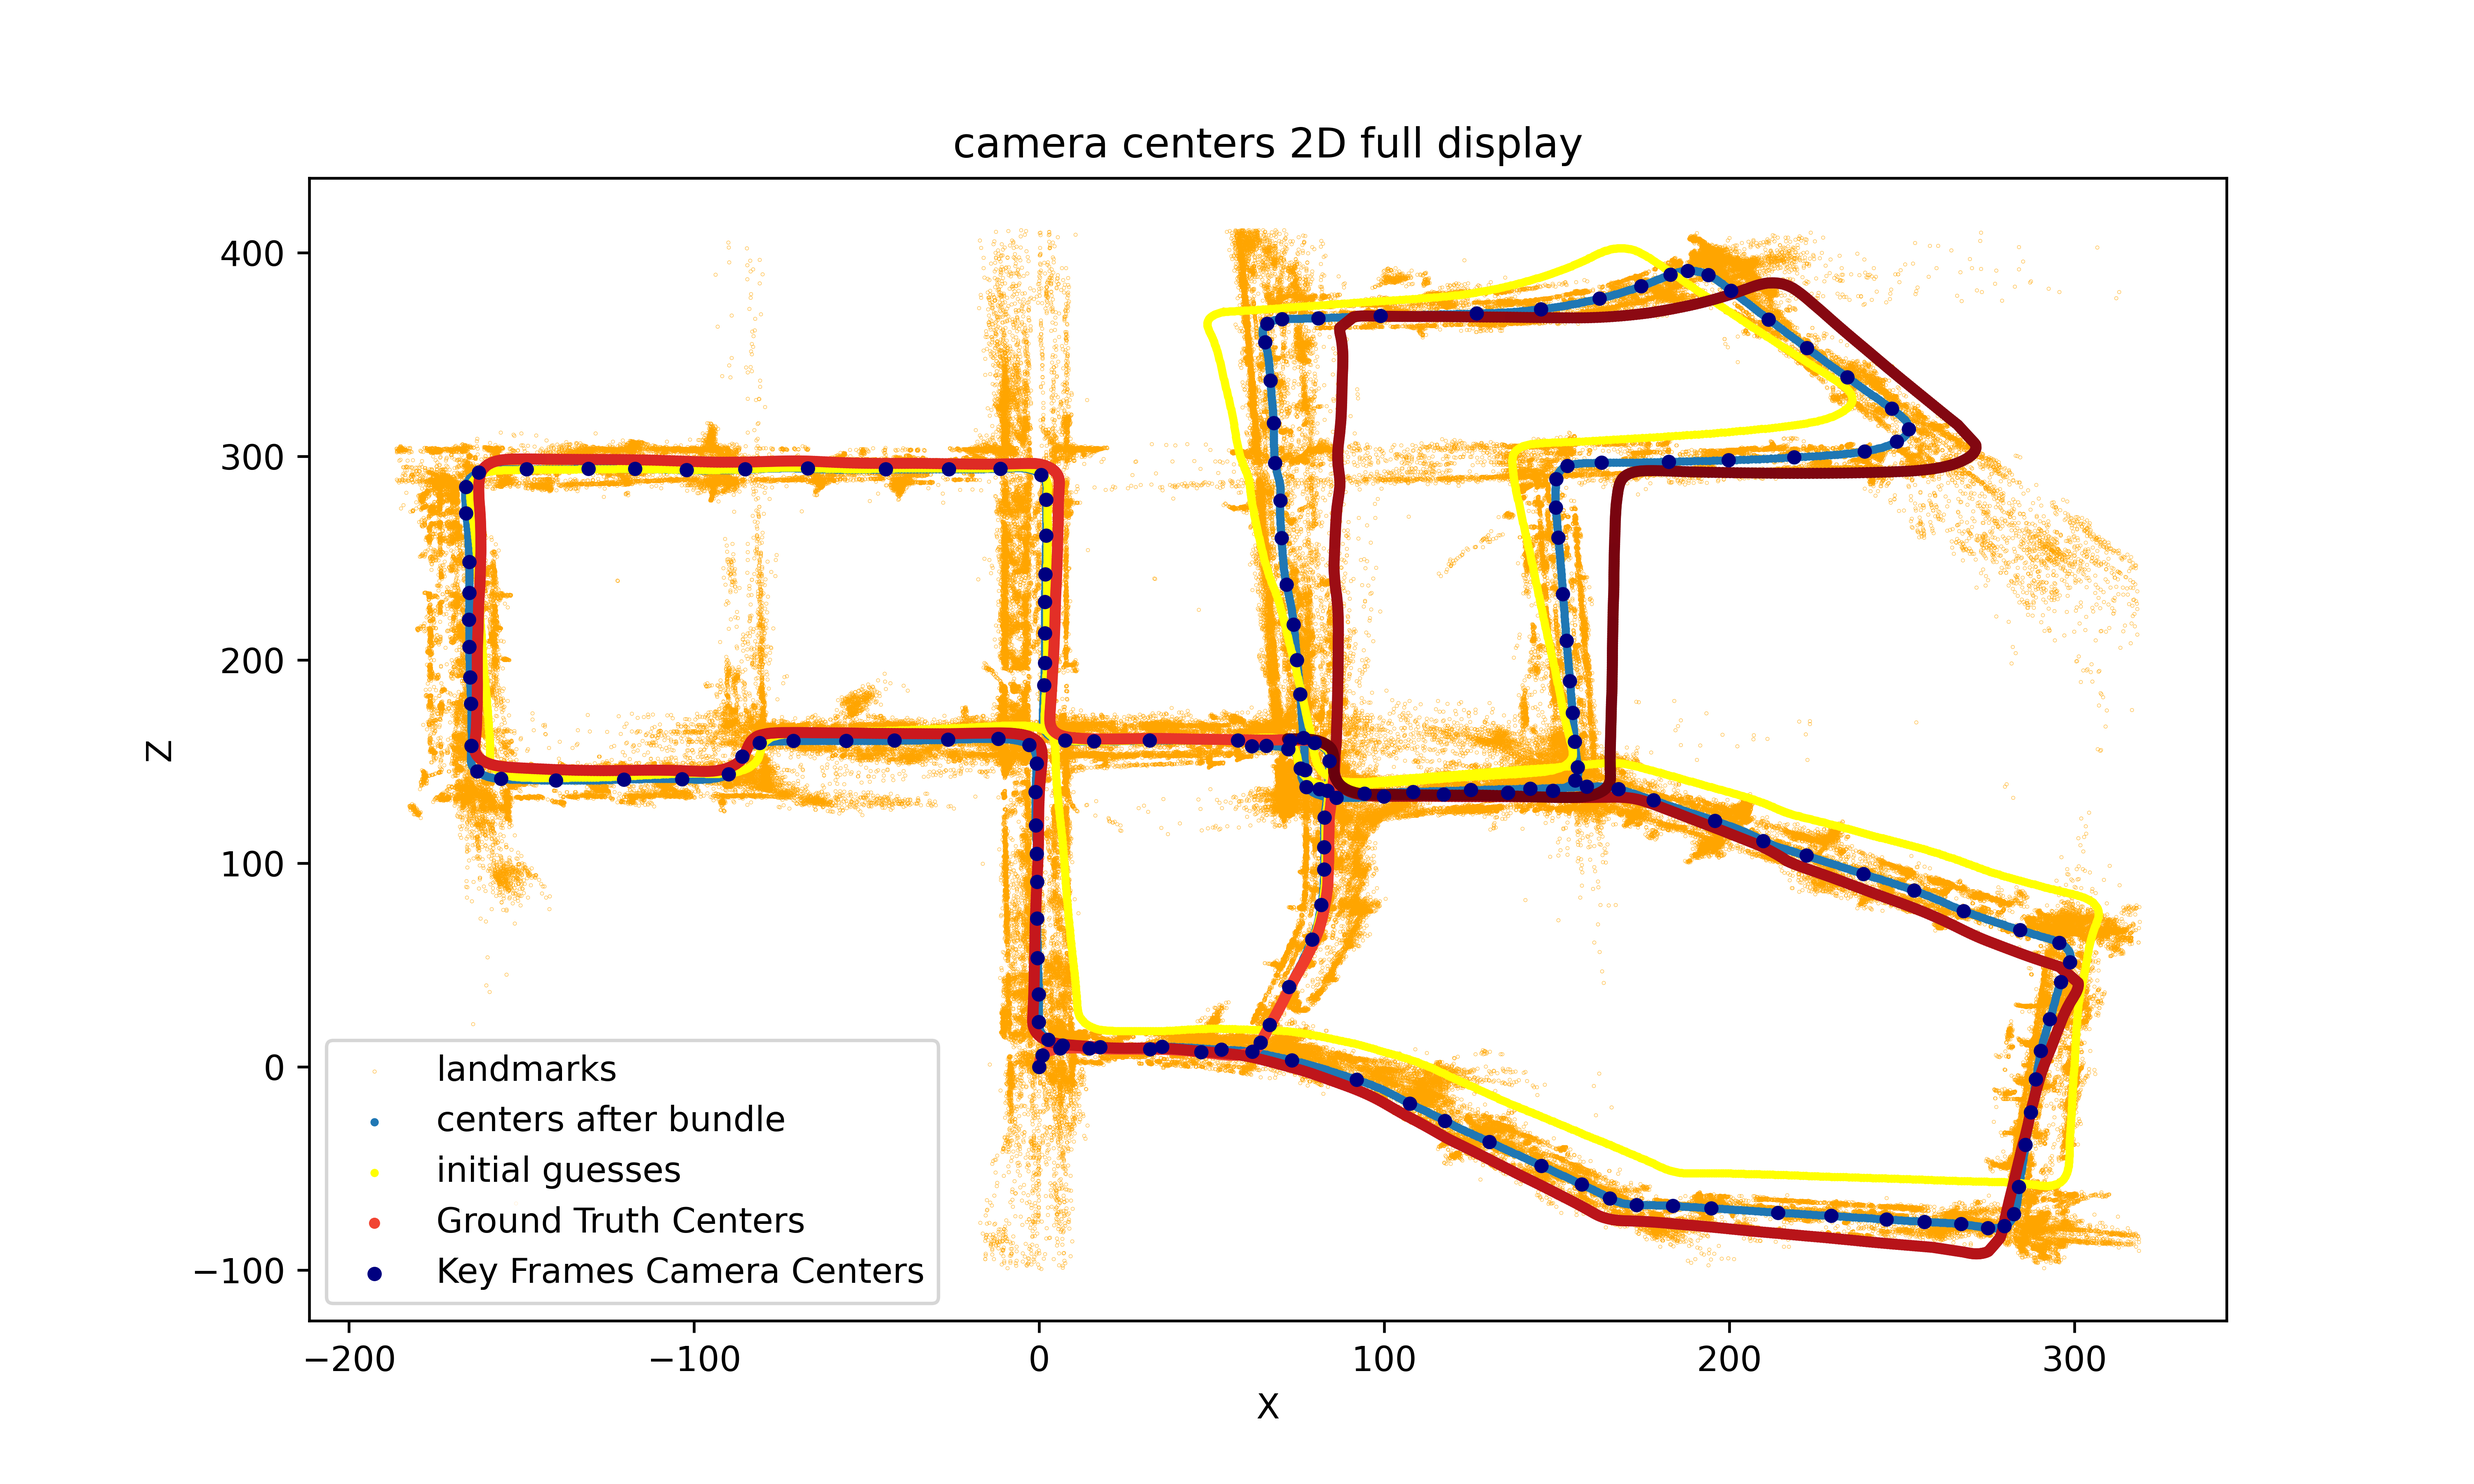
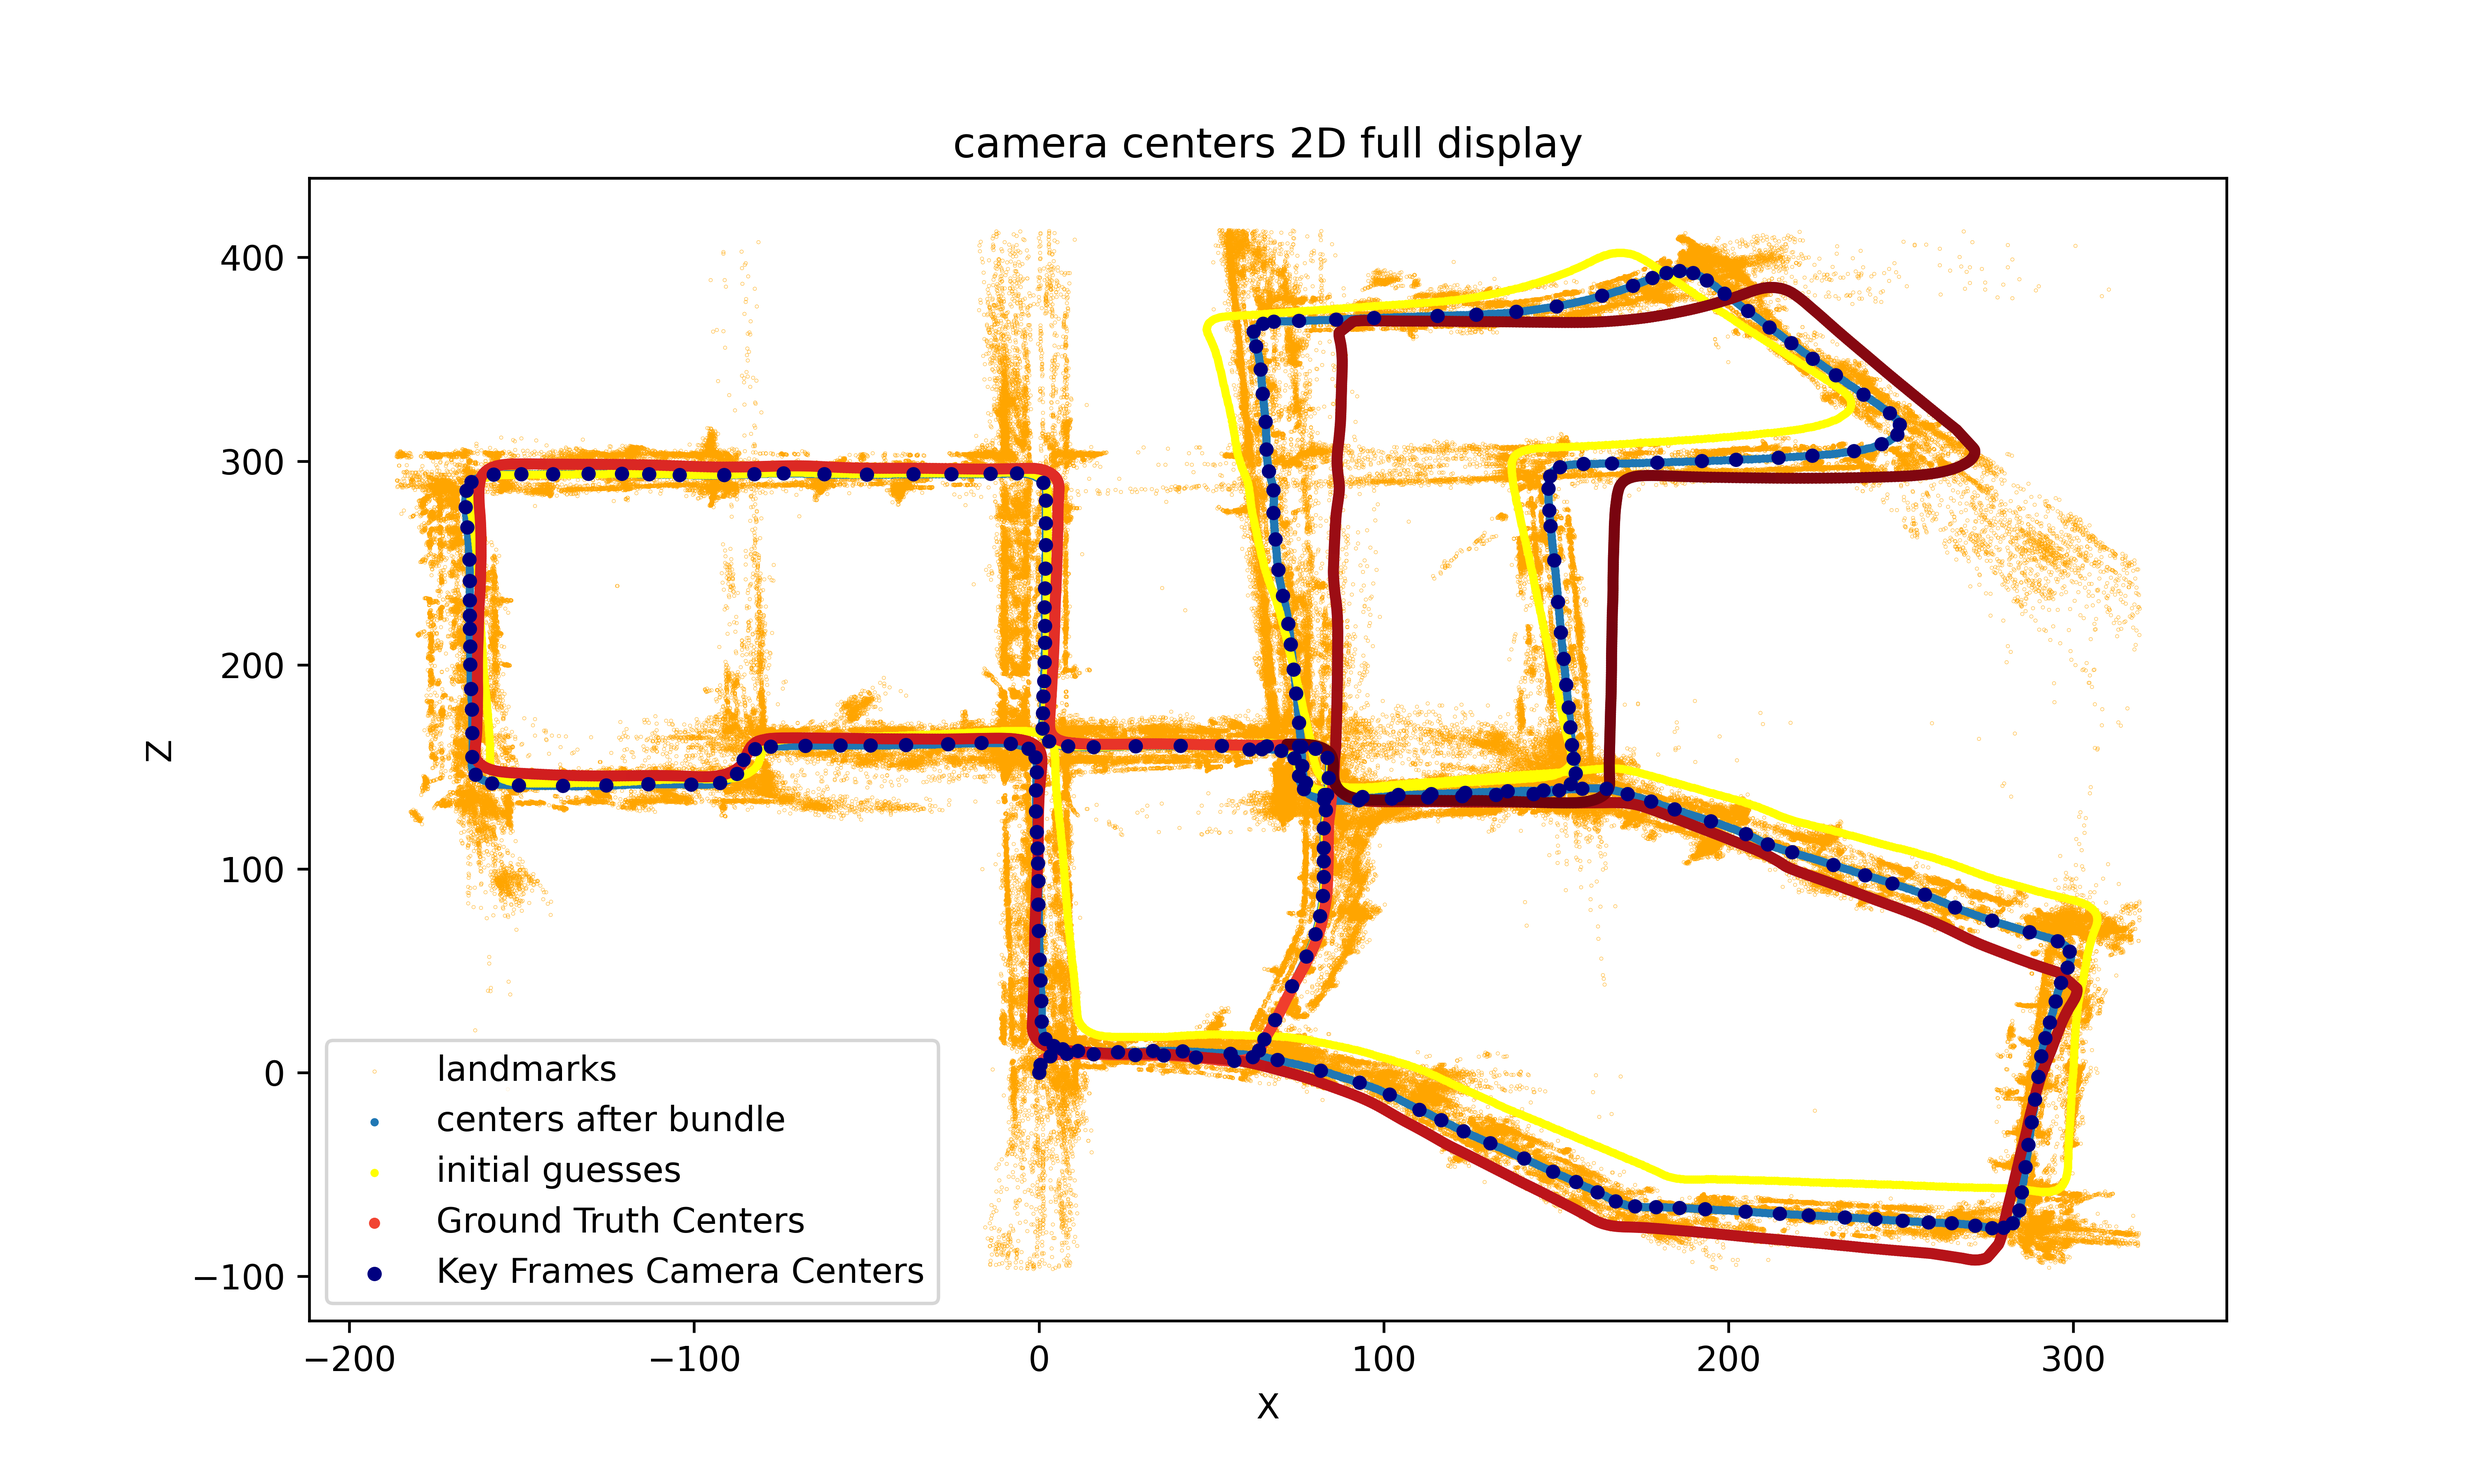
modified covariance plot

diff --git a/VAN_ex/code/ex5/Ex5.py b/VAN_ex/code/ex5/Ex5.py
@@ -140,13 +140,11 @@ def display_factor_erros(factor_errors, track_id):
     plt.savefig(f"reprojection errors along track.png")
 
 
-
-
-def display_3d_trajectory_gtsam_function(initial_estimates, optimized_values):
+def display_3d_trajectory_gtsam_function(graph, initial_estimates, optimized_values):
     # display the trajectories using gtsam fucntion
     plt.figure()
-    gtsam.utils.plot.plot_trajectory(fignum=0, values=optimized_values)
-    gtsam.utils.plot.plot_trajectory(fignum=0, values=initial_estimates)
+    marginals_results = gtsam.Marginals(graph, optimized_values)
+    gtsam.utils.plot.plot_trajectory(fignum=0, marginals=marginals_results, values=optimized_values)
     # Get the current axis
     ax = plt.gca()
     # Flip the y-axis
@@ -159,7 +157,7 @@ def display_3d_trajectory_gtsam_function(initial_estimates, optimized_values):
     ax.set_box_aspect([1, 1, 1])  # Aspect ratio is 1:1:1
     ax.view_init(elev=30, azim=90)  # Adjust the elevation and azimuth to get the desired view
     # Save the figure
-    plt.savefig("gtsam_3D_trajectory_for_first_bundle_window.png")
+    plt.savefig("gtsam_3D_trajectory_for_first_bundle_window.png", dpi=600)
 
 
 def display_initial_vs_optimized_measured_and_reprojected_worse_factor(left_image, q_measured, q_projection_final,
@@ -404,7 +402,8 @@ def task_5_3(tracking_db):
                                                                        q_projection_initial, reprojection_error_final,
                                                                        reprojection_error_initial, right_image)
 
-    display_3d_trajectory_gtsam_function(initial_estimates, optimized_values)
+    graph = first_bundelon.get_factor_graph()
+    display_3d_trajectory_gtsam_function(graph, initial_estimates, optimized_values)
 
     # do bundle with first window only
     bundle_object = BundleAdjusment(tracking_db, calculate_only_first_bundle=True)
@@ -475,7 +474,7 @@ def display_localization_erros_vs_ground_truth(bundle_object, processor, use_key
     plt.legend()
     # Show the plot
     plt.savefig(f"keyframe localization error in meters over time.png")
-    plt.show()
+    # plt.show()
     a=0
 
 
